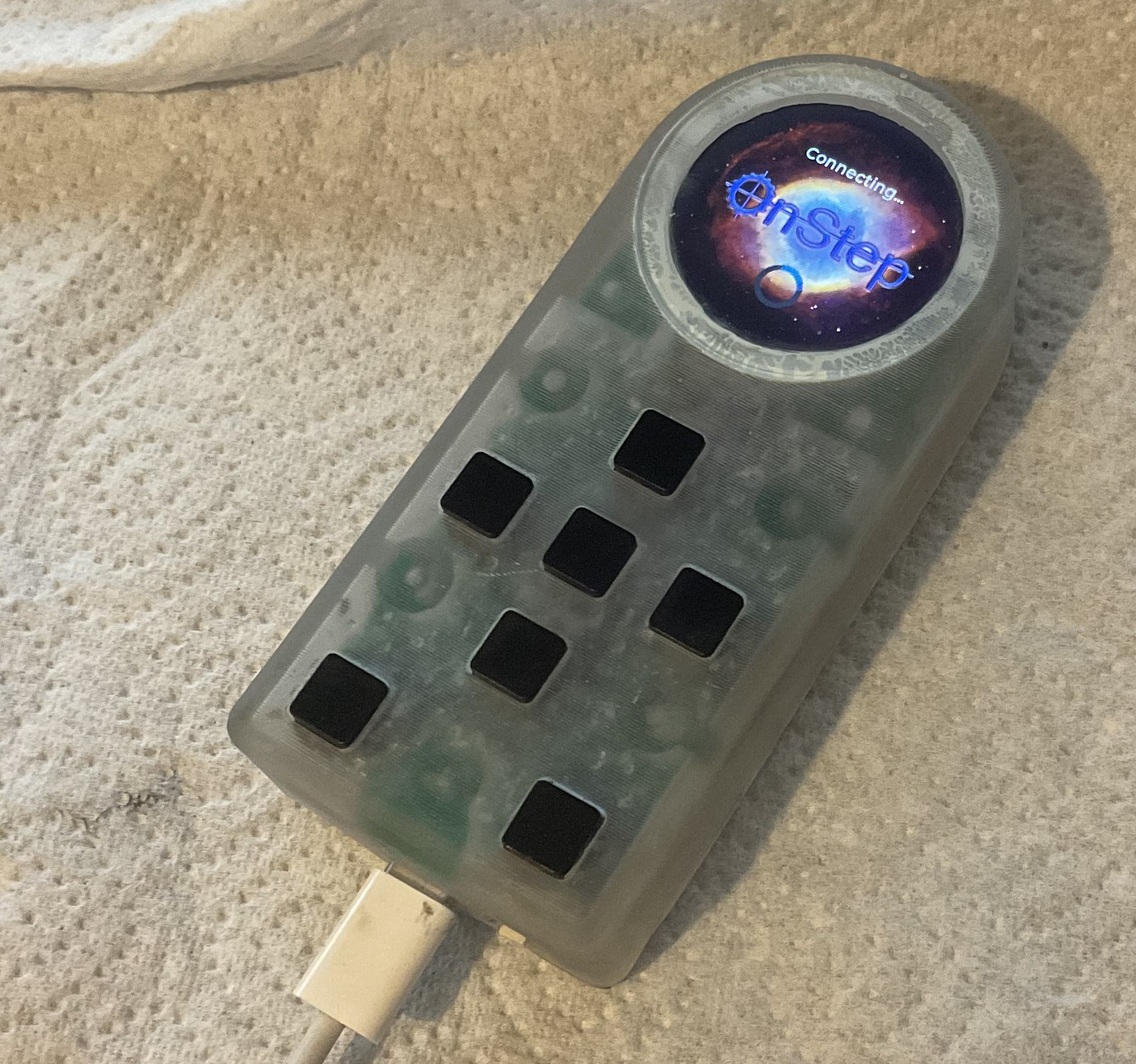
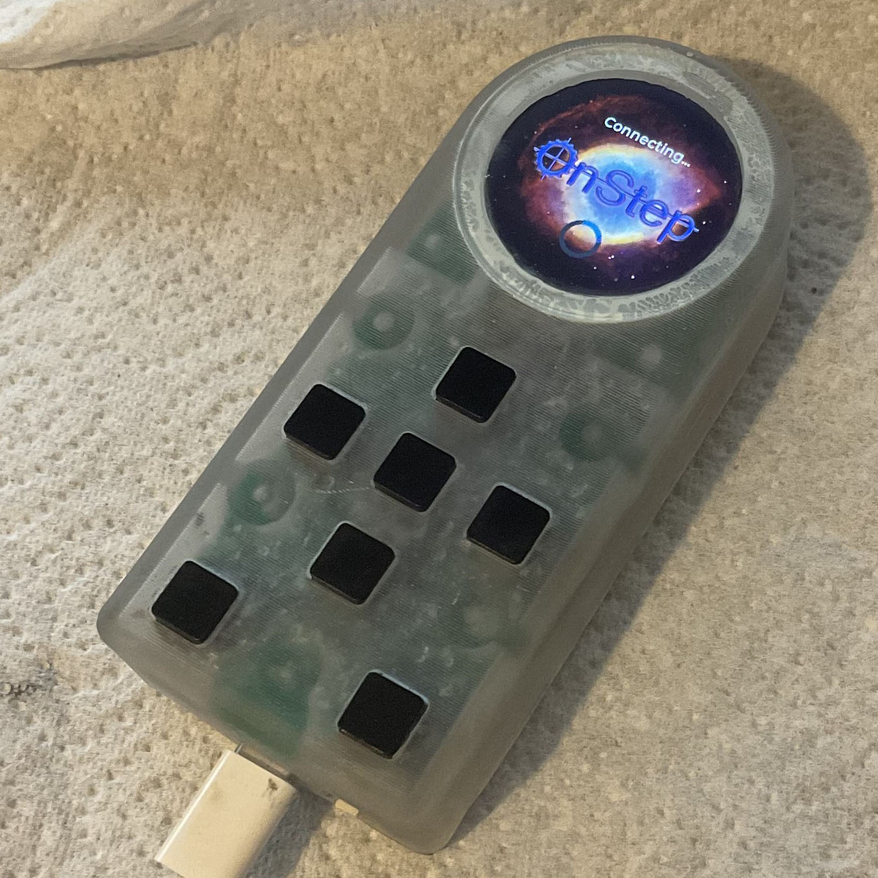
modified photos

diff --git a/README.md b/README.md
@@ -54,8 +54,8 @@ Project is: _in progress and non-functional as of yet_!
 ## Photos
 The initial prototype looks like this.
 <!--![Example screenshot](img\prototype-front.jpg) -->
-<img src="img\prototype-screen.jpg" alt="drawing" height="500"/>
-<img src="img\prototype-iso.jpg" alt="drawing" height="500"/>
+<img src="img\prototype-screen.jpg" alt="drawing" height="500" width="500"/>
+<img src="img\prototype-iso.jpg" alt="drawing" height="500" width="500"/>
 <!-- If you have screenshots you'd like to share, include them here. -->
 
 
